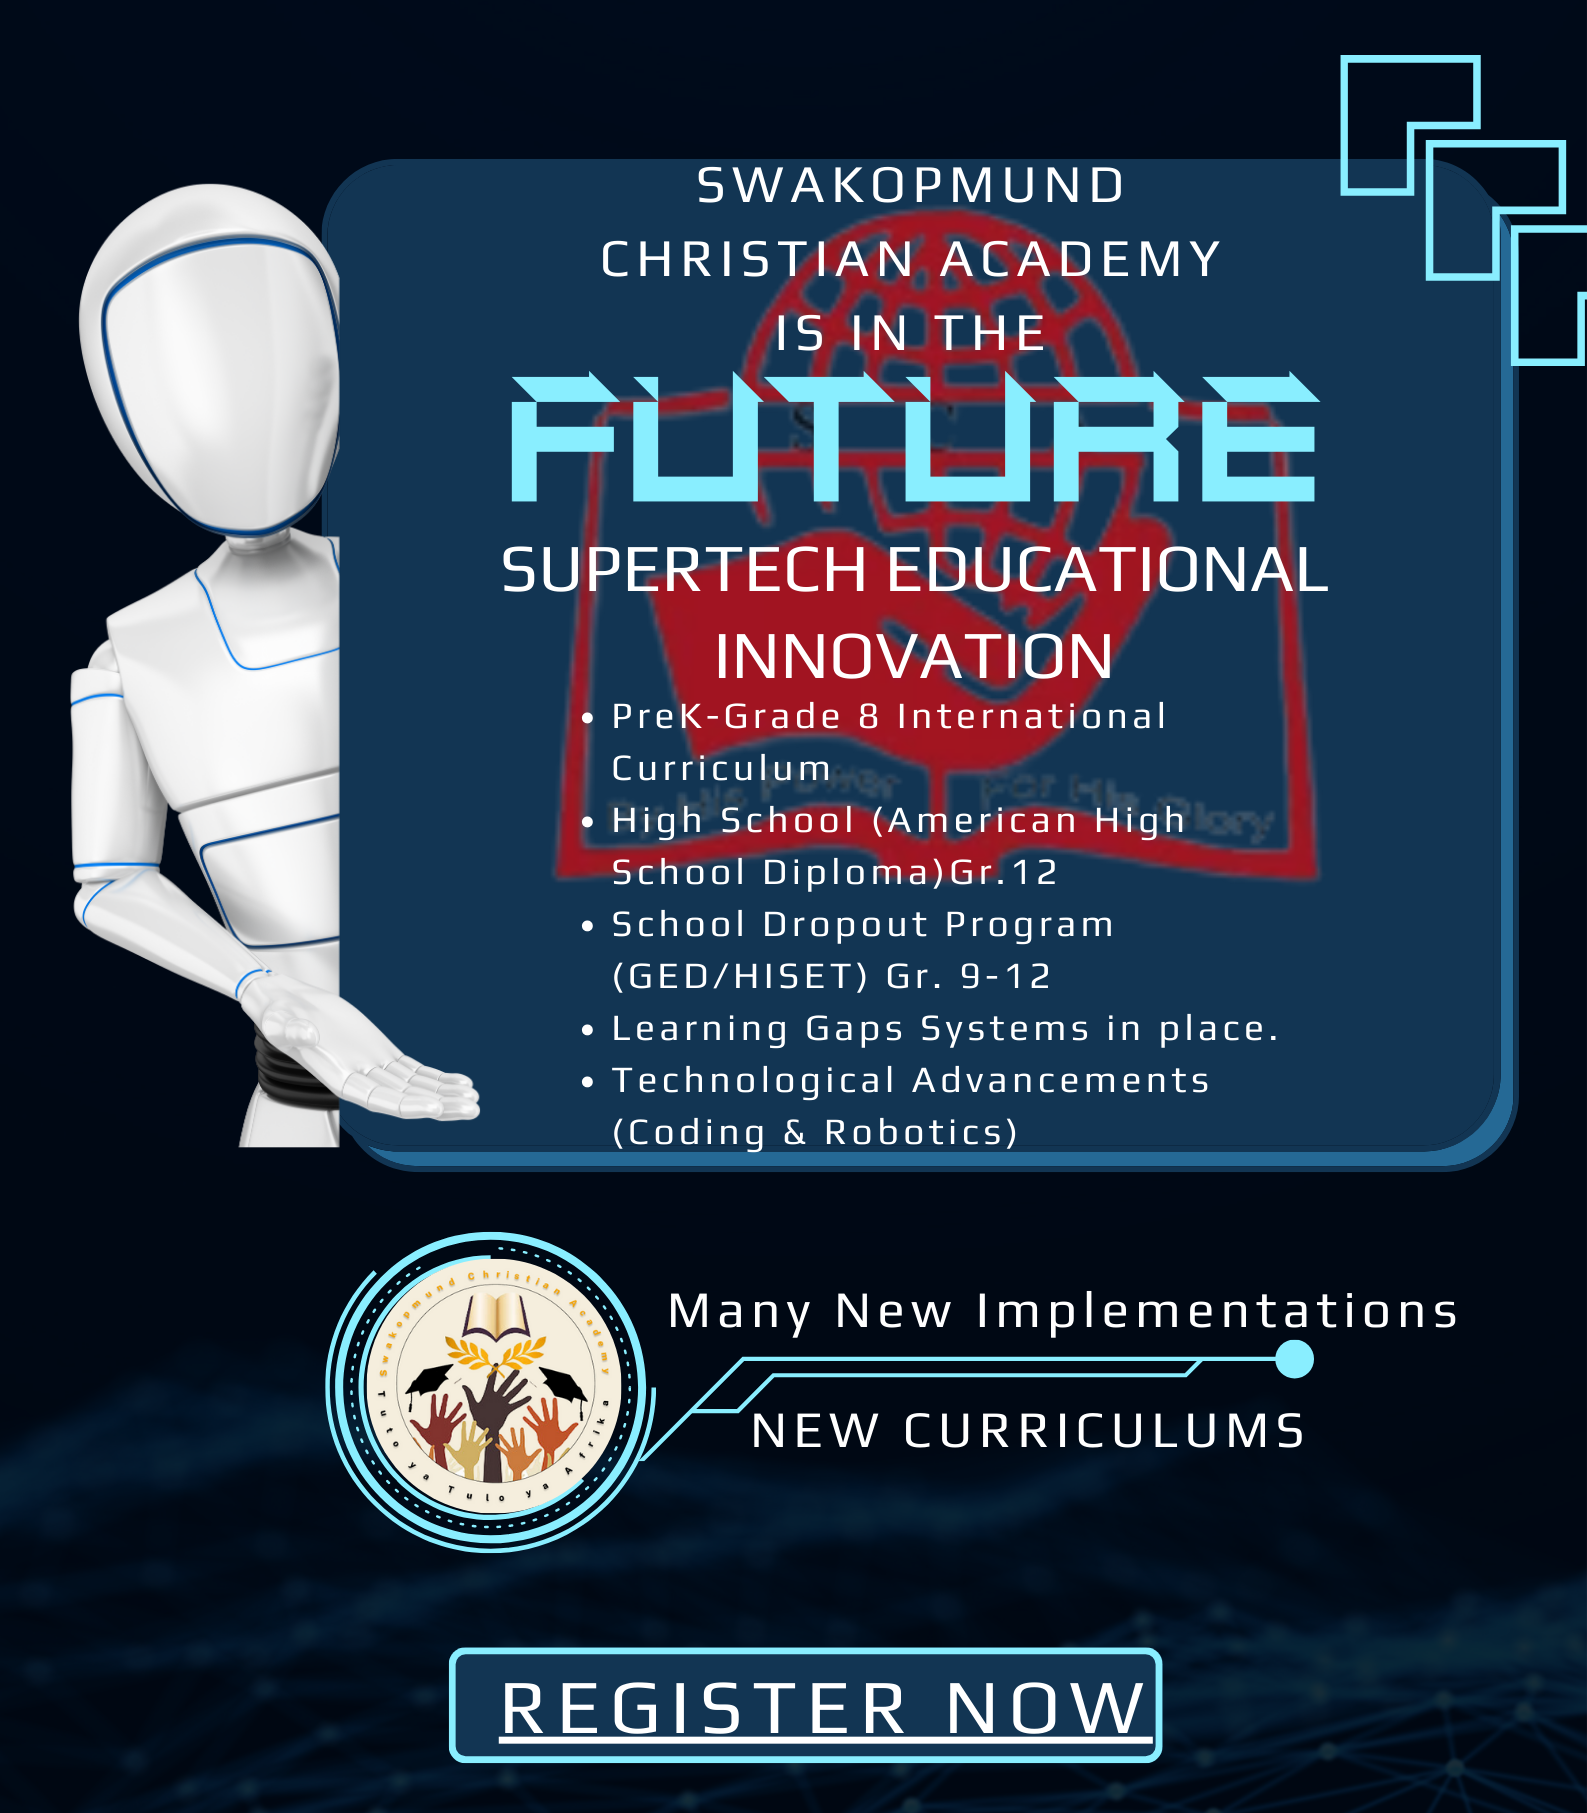
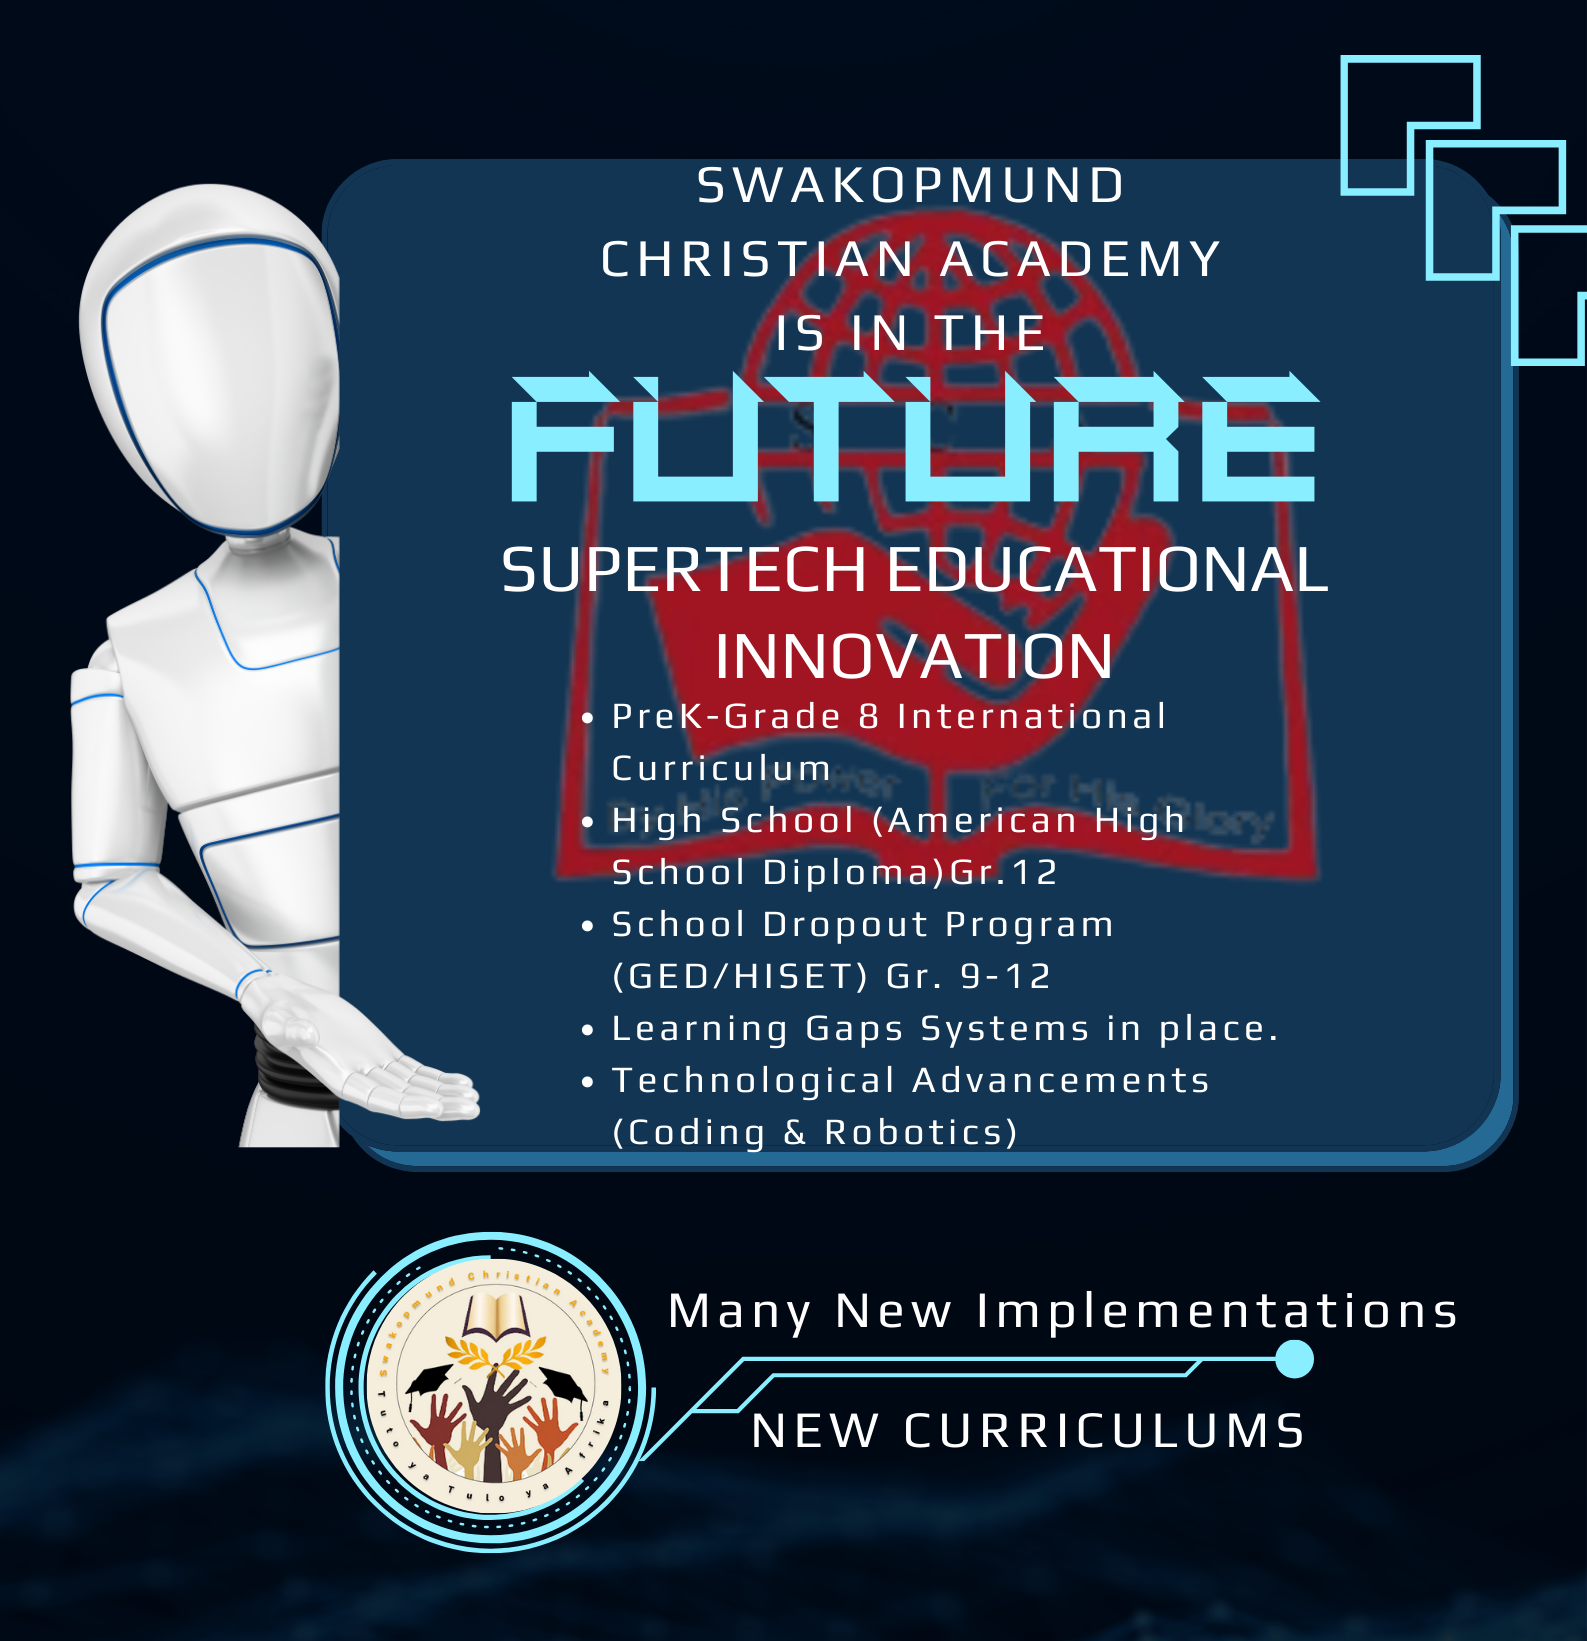
Changed image and resized cards

diff --git a/index.html b/index.html
@@ -65,7 +65,7 @@
                     <div class="dropdown-menu fade-down m-0">
                         <a href="team.html" class="dropdown-item">Our Team</a>
                         <a href="testimonial.html" class="dropdown-item">Testimonial</a>
-                        <a href="404.html" class="dropdown-item">404 Page</a>
+                        <!-- <a href="404.html" class="dropdown-item">404 Page</a> -->
                     </div>
                 </div>
                 <a href="contact.html" class="nav-item nav-link">Contact</a>
@@ -132,8 +132,8 @@
         <div class="container">
             <div class="row g-4">
                 <div class="col-lg-3 col-sm-6 wow fadeInUp" data-wow-delay="0.1s">
-                    <div class="service-item text-center pt-3">
-                        <div class="p-4">
+                    <div class="service-item text-center pt-3 h-100 d-flex flex-column">
+                        <div class="p-4 flex-grow-1">
                             <i class="fa fa-3x fa-graduation-cap text-primary mb-4"></i>
                             <h5 class="mb-3">Skilled Developers</h5>
                             <p>At Swakopmund Christian Academy, we partner with Dynamic Odyssey, a specialized corporation in computer science and
@@ -143,8 +143,8 @@
                     </div>
                 </div>
                 <div class="col-lg-3 col-sm-6 wow fadeInUp" data-wow-delay="0.3s">
-                    <div class="service-item text-center pt-3">
-                        <div class="p-4">
+                    <div class="service-item text-center pt-3 h-100 d-flex flex-column">
+                        <div class="p-4 flex-grow-1">
                             <i class="fa fa-3x fa-globe text-primary mb-4"></i>
                             <h5 class="mb-3">Online Classes</h5>
                             <p>Swakopmund Christian Academy embraces online learning, offering flexible and accessible classes. Through platforms like
@@ -153,8 +153,8 @@
                     </div>
                 </div>
                 <div class="col-lg-3 col-sm-6 wow fadeInUp" data-wow-delay="0.5s">
-                    <div class="service-item text-center pt-3">
-                        <div class="p-4">
+                    <div class="service-item text-center pt-3 h-100 d-flex flex-column">
+                        <div class="p-4 flex-grow-1">
                             <i class="fa fa-3x fa-home text-primary mb-4"></i>
                             <h5 class="mb-3">Projects</h5>
                             <p>Projects are integral to our curriculum, promoting hands-on learning, critical thinking, and creativity. Our skilled
@@ -163,8 +163,8 @@
                     </div>
                 </div>
                 <div class="col-lg-3 col-sm-6 wow fadeInUp" data-wow-delay="0.7s">
-                    <div class="service-item text-center pt-3">
-                        <div class="p-4">
+                    <div class="service-item text-center pt-3 h-100 d-flex flex-column">
+                        <div class="p-4 flex-grow-1">
                             <i class="fa fa-3x fa-book-open text-primary mb-4"></i>
                             <h5 class="mb-3">Book Library</h5>
                             <p>While our physical book resources are limited, we are actively developing an extensive online book library. Our goal is
@@ -186,7 +186,7 @@
                 <div class="col-lg-6 wow fadeInUp" data-wow-delay="0.1s" style="min-height: 400px;">
                     <div class="position-relative h-100">
                         <img class="img-fluid position-absolute w-100 h-100" src="img/SCA 2023 Poster Updated.png" alt=""
-                            style="object-fit: cover;">
+                            style="height: auto; max-width: 100%">
                     </div>
                 </div>
                 <div class="col-lg-6 wow fadeInUp" data-wow-delay="0.3s">
@@ -630,7 +630,7 @@
                 <div class="row">
                     <div class="col-md-6 text-center text-md-start mb-3 mb-md-0">
                         &copy; <a class="border-bottom" href="#">Swakopmund Christian Academy</a>, All Right Reserved.
-
+                        <br>
                         <!--/*** This template is free as long as you keep the footer author’s credit link/attribution link/backlink. If you'd like to use the template without the footer author’s credit link/attribution link/backlink, you can purchase the Credit Removal License from "https://htmlcodex.com/credit-removal". Thank you for your support. ***/-->
                         Designed By <a class="border-bottom" href="https://htmlcodex.com">Dynamic Odyssey trading cc</a>
                     </div>
